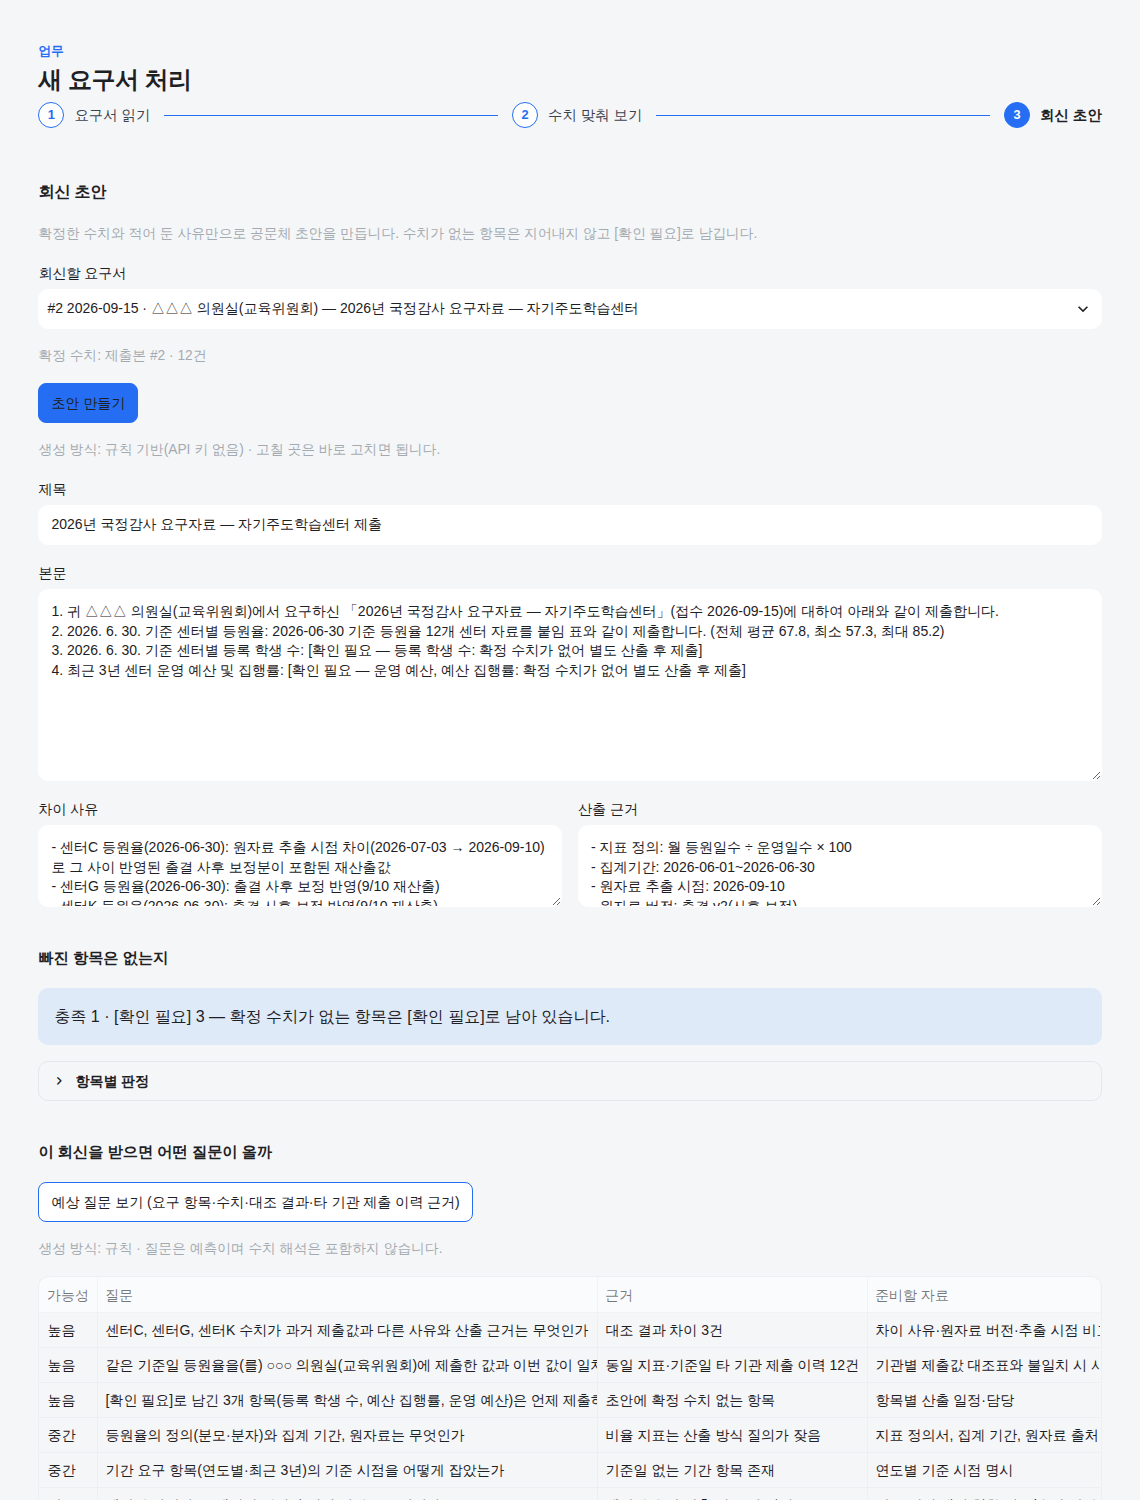
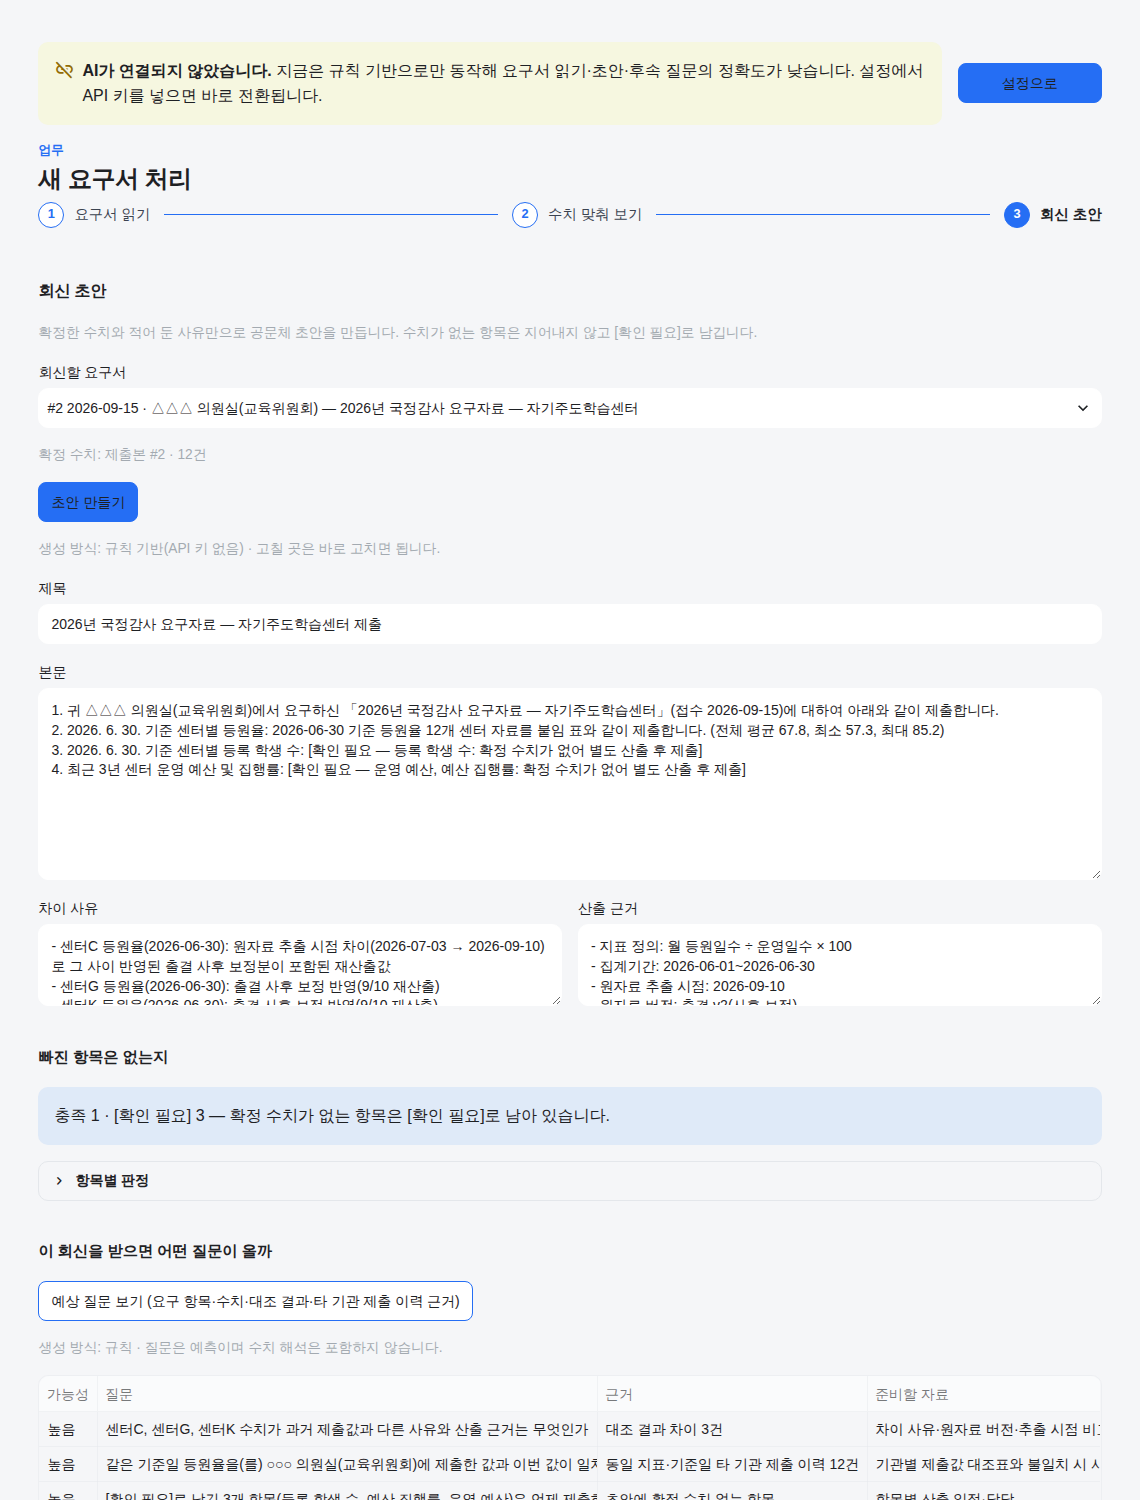
사이드바 구역 이름을 기본 caption으로(브라우저별 겹침 제거), AI 미연결 시 상단 경고 띠 + 설정 이동 버튼
Claude-Session: https://claude.ai/code/session_01JoDziuss8iV2Vzqkd34EF8

diff --git a/app/ui.py b/app/ui.py
@@ -31,9 +31,8 @@ h4 {{font-size: .95rem !important; font-weight: 700 !important; color: {TEXT}; m
 .brand .mark {{width: 36px; height: 36px; border-radius: 9px; background: {PRIMARY}; color: #fff; font-weight: 800; font-size: 11px; display: flex; align-items: center; justify-content: center; letter-spacing: 0; font-family: Pretendard, Arial, sans-serif !important;}}
 .brand .t {{font-weight: 700; font-size: .98rem; color: {TEXT}; letter-spacing: -0.01em; line-height: 1.2;}}
 .brand .s {{font-size: .74rem; color: {MUTED}; margin-top: 2px;}}
-.navsec {{font-size: .72rem; font-weight: 700; color: #99A2AC; letter-spacing: .06em; height: 34px; display: flex; align-items: flex-end; padding: 0 10px 6px; margin: 0;}}
-[data-testid="stSidebar"] [data-testid="stMarkdown"] {{overflow: visible;}}
-[data-testid="stSidebar"] [data-testid="stVerticalBlock"] {{gap: .3rem;}}
+[data-testid="stSidebar"] [data-testid="stCaptionContainer"] p {{font-size: .72rem; font-weight: 700; color: #99A2AC; letter-spacing: .06em; margin: 0; padding: 14px 10px 2px; line-height: 1.2;}}
+[data-testid="stSidebar"] [data-testid="stVerticalBlock"] {{gap: .35rem;}}
 [data-testid="stSidebar"] .stButton {{margin: 0;}}
 [data-testid="stSidebar"] [class*="st-key-nav"] button {{
   justify-content: flex-start !important; text-align: left; width: 100%; padding: 7px 10px; border: 0; border-radius: 8px; background: transparent;
@@ -102,7 +101,7 @@ def nav(sections: list[tuple[str, list[tuple[str, str]]]], current: str) -> str 
     """사이드바 메뉴. sections: [(구역 이름, [(메뉴 이름, material 아이콘)])]. 눌린 메뉴 이름을 돌려준다(없으면 None)."""
     clicked = None
     for sec, items in sections:
-        if sec: st.markdown(f'<div class="navsec">{sec}</div>', unsafe_allow_html=True)
+        if sec: st.caption(sec)
         for i, (name, icon) in enumerate(items):
             key = f"navon_{sec}_{i}" if name == current else f"nav_{sec}_{i}"
             if st.button(name, key=key, icon=f":material/{icon}:", type="tertiary", width="stretch"): clicked = name
@@ -137,3 +136,9 @@ def action_card(col, title: str, desc: str, button: str, key: str, icon: str, pr
 
 def status_line(on: bool, text: str):
     st.markdown(f'<span class="pill"><i class="{"on" if on else ""}"></i>{text}</span>', unsafe_allow_html=True)
+
+def ai_banner(on_click_settings) -> None:
+    """AI가 연결되지 않았을 때 본문 맨 위에 크게 알린다. 규칙 기반으로도 동작하지만 읽기 정확도가 떨어지므로 눈에 띄어야 한다."""
+    c1, c2 = st.columns([6, 1], vertical_alignment="center")
+    c1.warning("**AI가 연결되지 않았습니다.** 지금은 규칙 기반으로만 동작해 요구서 읽기·초안·후속 질문의 정확도가 낮습니다. 설정에서 API 키를 넣으면 바로 전환됩니다.", icon=":material/link_off:")
+    if c2.button("설정으로", type="primary", width="stretch", key="banner_settings"): on_click_settings()

diff --git a/app/app.py b/app/app.py
@@ -664,4 +664,5 @@ def page_settings():
 
 PAGES = {"홈": page_home, "새 요구서 처리": page_process, "검토·승인": page_review, "과거 답변 등록": page_register,
          "이력 조회": page_history, "현황": page_status, "이력에 묻기": page_ask, "설정": page_settings}
+if not HAS_API and page != "설정": ui.ai_banner(lambda: go("설정"))
 PAGES[page]()
